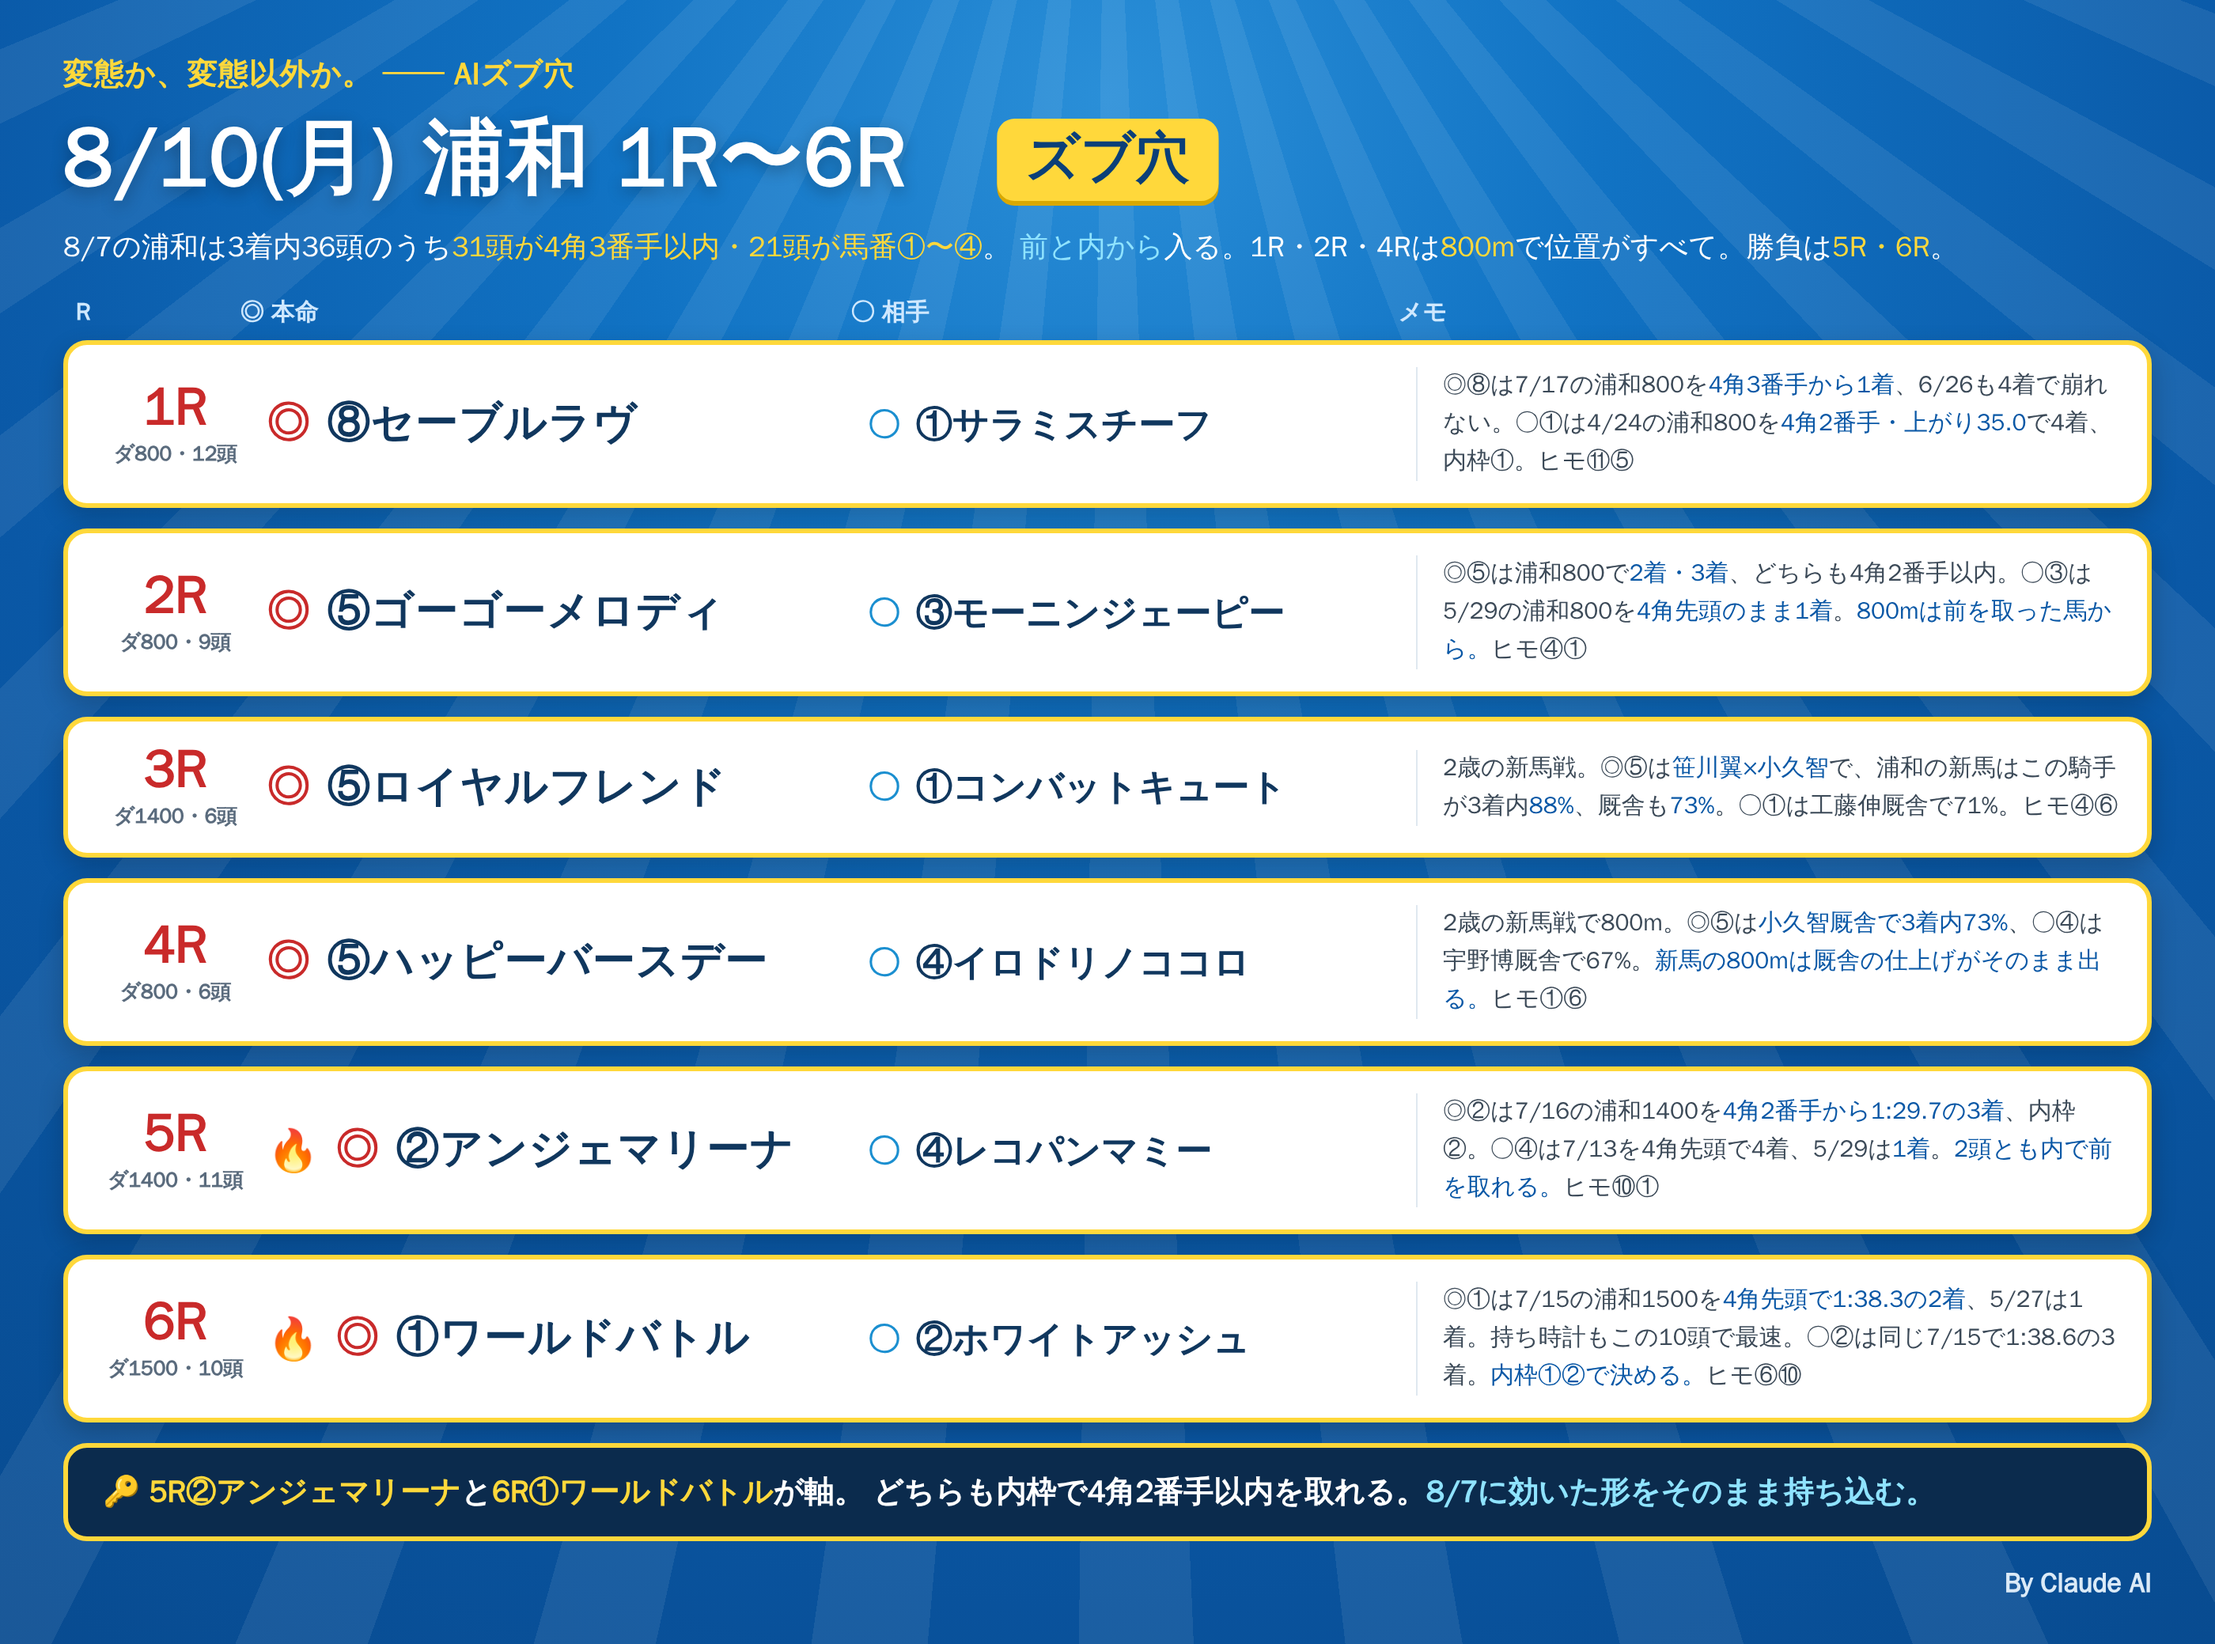
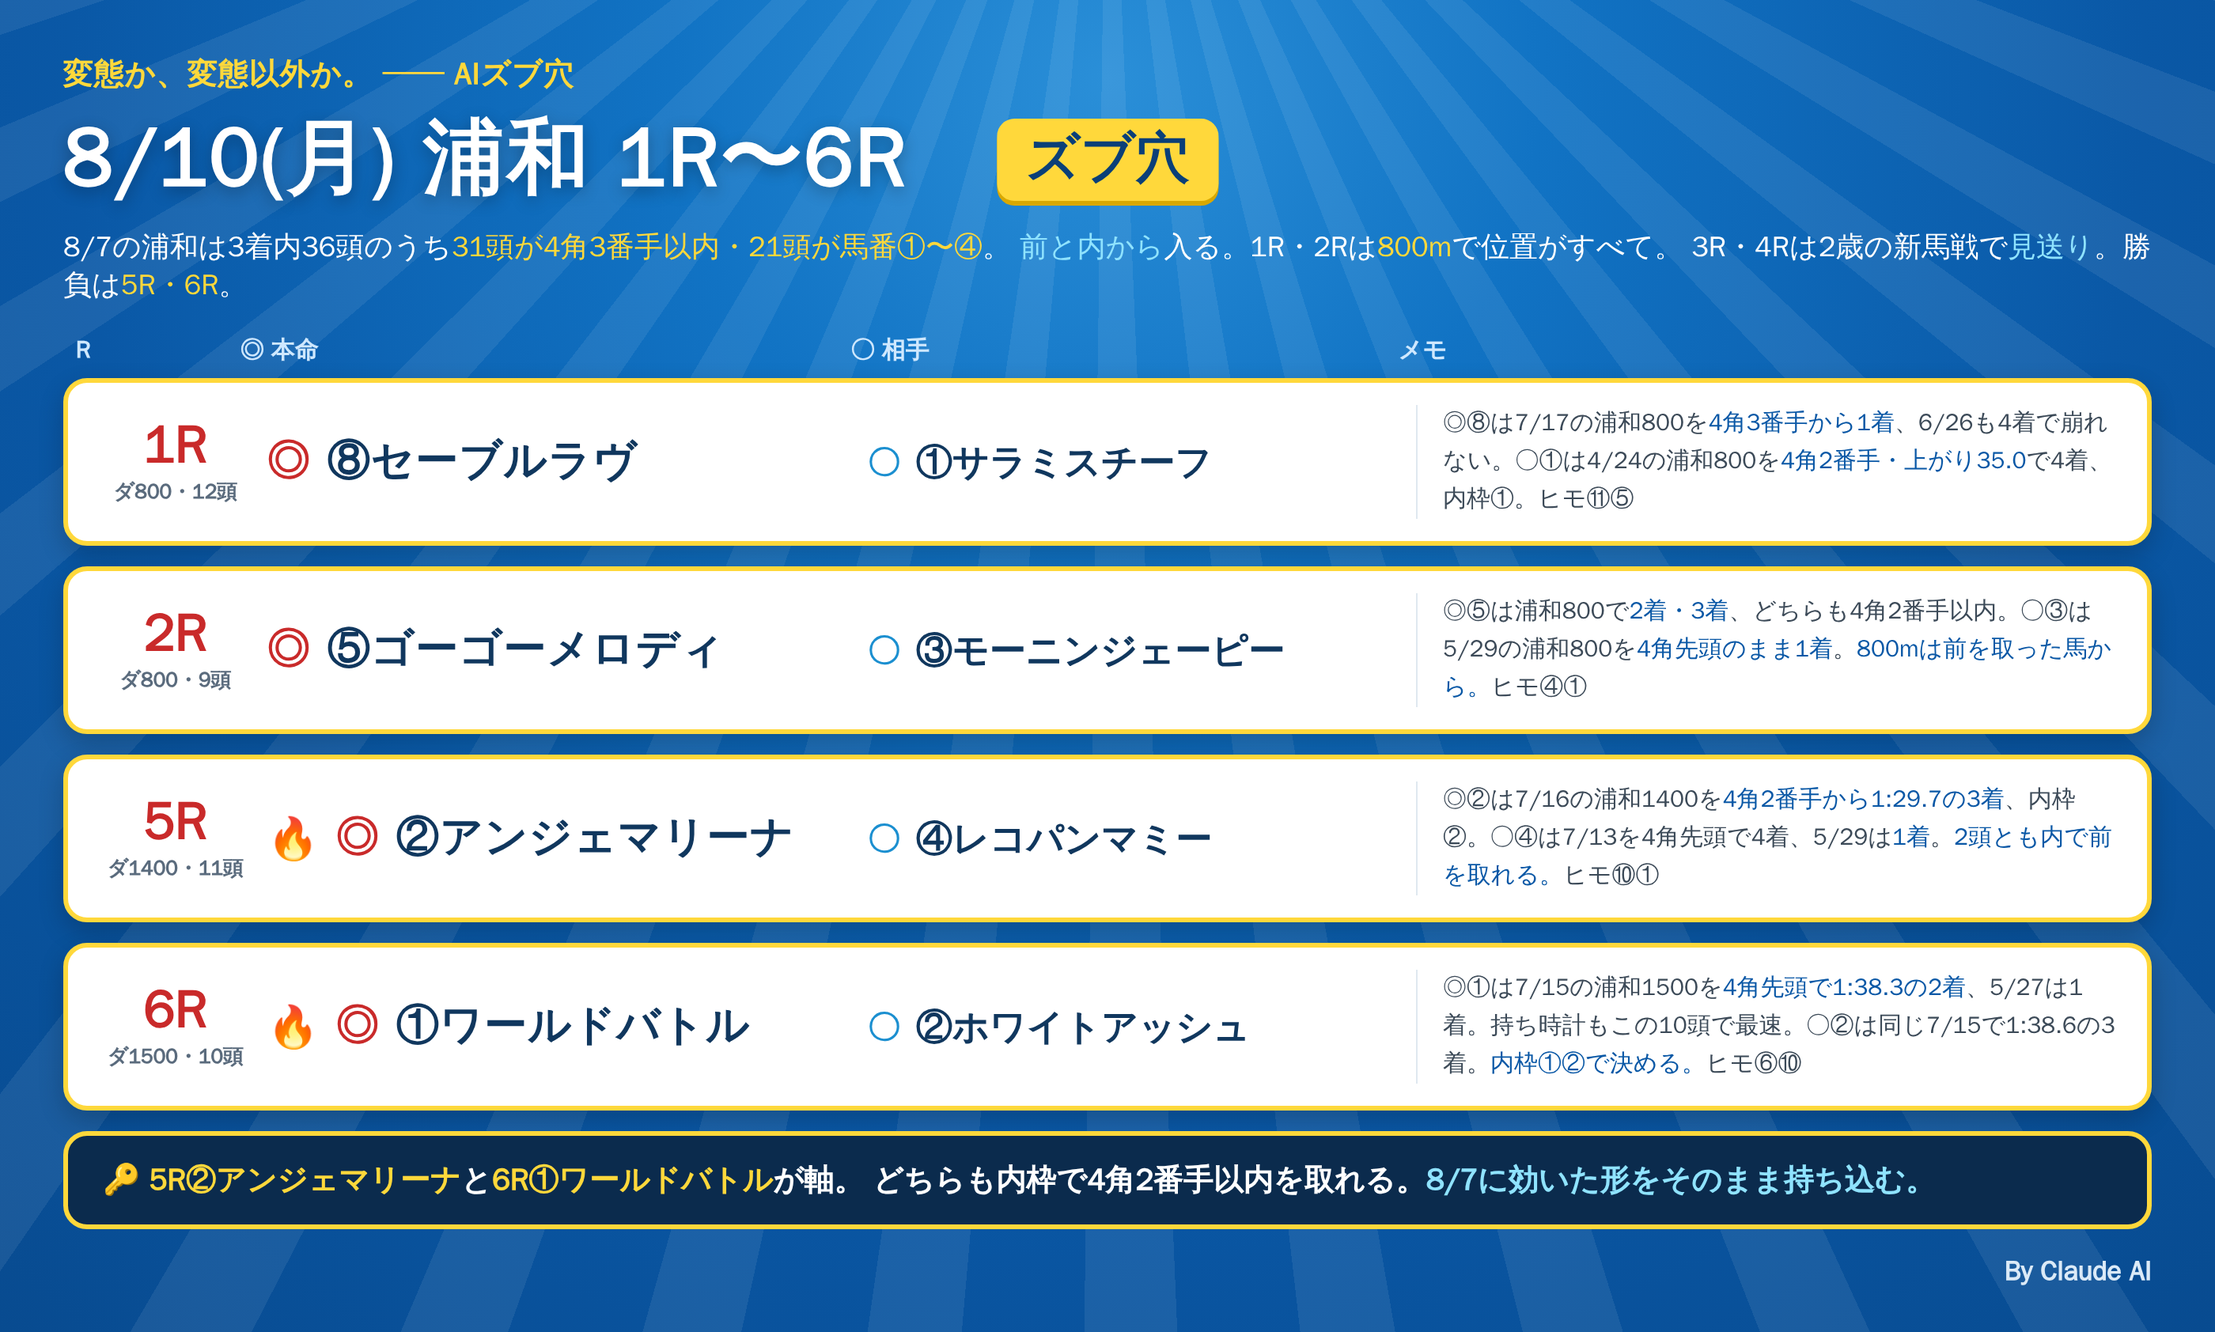
notes: drop the maiden races from the 8/10 front-half card

diff --git a/notes/live/2026-08-10/urawa_1_6.html b/notes/live/2026-08-10/urawa_1_6.html
@@ -50,7 +50,8 @@
     <div class="bdg">ズブ穴</div>
   </div>
   <div class="lead">8/7の浦和は3着内36頭のうち<span class="y">31頭が4角3番手以内・21頭が馬番①〜④</span>。
-  <span class="c">前と内から</span>入る。1R・2R・4Rは<span class="y">800m</span>で位置がすべて。勝負は<span class="y">5R・6R</span>。</div>
+  <span class="c">前と内から</span>入る。1R・2Rは<span class="y">800m</span>で位置がすべて。
+  3R・4Rは2歳の新馬戦で<span class="c">見送り</span>。勝負は<span class="y">5R・6R</span>。</div>
   <div class="cols"><div class="cR">R</div><div class="cH">◎ 本命</div><div class="cA">○ 相手</div><div class="cM">メモ</div></div>
 
   <div class="row">
@@ -65,20 +66,6 @@
     <div class="hm"><span class="mk">◎</span><span class="nm">⑤ゴーゴーメロディ</span></div>
     <div class="at"><span class="mk2">○</span><span class="nm2">③モーニンジェーピー</span></div>
     <div class="memo">◎⑤は浦和800で<b>2着・3着</b>、どちらも4角2番手以内。○③は5/29の浦和800を<b>4角先頭のまま1着</b>。<b>800mは前を取った馬から。</b>ヒモ④①</div>
-  </div>
-
-  <div class="row">
-    <div class="rN"><div class="n">3R</div><div class="d">ダ1400・6頭</div></div>
-    <div class="hm"><span class="mk">◎</span><span class="nm">⑤ロイヤルフレンド</span></div>
-    <div class="at"><span class="mk2">○</span><span class="nm2">①コンバットキュート</span></div>
-    <div class="memo">2歳の新馬戦。◎⑤は<b>笹川翼×小久智</b>で、浦和の新馬はこの騎手が3着内<b>88%</b>、厩舎も<b>73%</b>。○①は工藤伸厩舎で71%。ヒモ④⑥</div>
-  </div>
-
-  <div class="row">
-    <div class="rN"><div class="n">4R</div><div class="d">ダ800・6頭</div></div>
-    <div class="hm"><span class="mk">◎</span><span class="nm">⑤ハッピーバースデー</span></div>
-    <div class="at"><span class="mk2">○</span><span class="nm2">④イロドリノココロ</span></div>
-    <div class="memo">2歳の新馬戦で800m。◎⑤は<b>小久智厩舎で3着内73%</b>、○④は宇野博厩舎で67%。<b>新馬の800mは厩舎の仕上げがそのまま出る。</b>ヒモ①⑥</div>
   </div>
 
   <div class="row">
